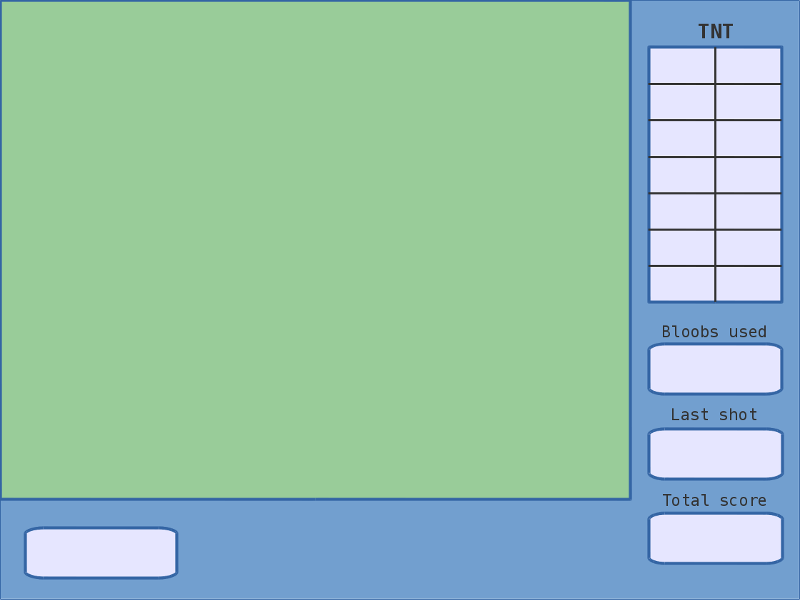
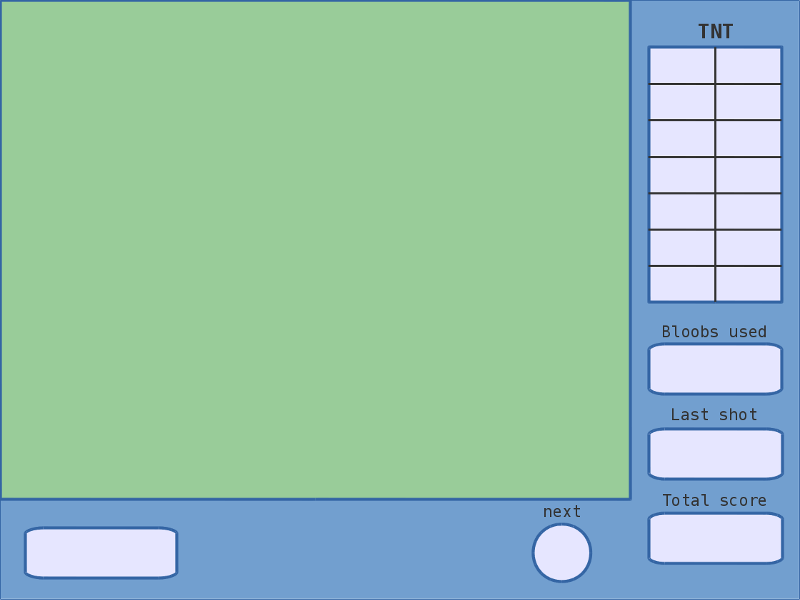
Bloob can now be shooted from cannon

Changed region(s): [[0.6562, 0.84, 0.75, 0.99]]

diff --git a/bloobs.py b/bloobs.py
@@ -2,36 +2,91 @@
 # -*- coding: utf-8 -*-
 
 import pyglet
+import random
+from math import sin
+from math import cos
+from math import radians
+from math import pi
 from settings import settings
 
 
 class Bloob(object):
-    def __init__(self, image, x, y):
+    def __init__(self, x, y):
+        bloob = random.choice(settings.bloobs[0:6])
+        image = pyglet.resource.image(bloob[0])
         # Set image's anchor point
         image.anchor_x, image.anchor_y = image.width/2, image.height/2
-        self.sprite = pyglet.sprite.Sprite(image, x=y, y=y, batch=batch,
+        self.sprite = pyglet.sprite.Sprite(image, x=x, y=y, batch=batch,
                                             group=foreground)
+        self.color = bloob[1]
+        """
+    def tick_wall(self, dt, game):
+        pass
+        #self.sprite.x += 2
+        #self.sprite.y += 3
+        """
 
+    def move(self, dt):
+        if self.movement == 'shot':
+            self.sprite.x += shot_velocity * cos(self.radians) * dt
+            self.sprite.y += shot_velocity * sin(self.radians) * dt
+        if self.movement == 'fall':
+            pass
+
+
+class Wall(object):
+    def __init__(self, game):
+        self.NB = 17    # Number of Bloobs in Line 0, 2, 4, ...
+        self.lines = []
+        y = game.firstLine_y
+        for line in range(game.numberOfLines):
+            nb = self.NB - line%2
+            x = 19 + 18*(line%2)
+            self.lines.append(self.generateBloobsLine(nb, x, y))
+            y = y - 36
+
+    def generateBloobsLine(self, nb, x, y):
+        line = []
+        for b in range(nb):
+            line.append(Bloob(x, y))
+            x += 37
+        return line
+
+    def deleteBloob(self, bloob, game):
+        pass
+        #posle signal ze ma spadnut, vymaze ho z self.lines
+        #a az bude dole, zmaze uplne
 
 
 class Cannon(object):
-    def __init__(self, image):
+    def __init__(self):
         # Set image's anchor point
-        image.anchor_x, image.anchor_y = image.width/2, 40
-        self.sprite = pyglet.sprite.Sprite(image, x=315, y=50, batch=batch,
+        image = pyglet.resource.image(settings.cannon)
+        image.anchor_x, image.anchor_y = image.width/2, 42
+        x, y = settings.cannon_coordinates
+        self.sprite = pyglet.sprite.Sprite(image, x=x, y=y, batch=batch,
                                             group=foreground)
 
-    def tick(self, dt):
+    def tick(self, dt, game):
+        # Moving the cannon with arrow keys:
         delta_rotation = 1
         if 'RIGHT' in pressed_keys:
             self.sprite.rotation += delta_rotation
-            if self.sprite.rotation > 90:
-                self.sprite.rotation = 90
         if 'LEFT' in pressed_keys:
             self.sprite.rotation -= delta_rotation
-            if self.sprite.rotation < -90:
-                self.sprite.rotation = -90
-        #if 'FIRE' in pressed_keys:
+        # Moving the cannon with mouse:
+        if game.mouseMovement != None:
+            self.sprite.rotation += game.mouseMovement
+            game.mouseMovement = None
+        if self.sprite.rotation > 75:
+            self.sprite.rotation = 75
+        if self.sprite.rotation < -75:
+            self.sprite.rotation = -75
+        if 'SHOOT' in pressed_keys:
+            rad = pi/2 - radians(self.sprite.rotation)
+            game.bloobsInCannon[0].movement = 'shot'
+            game.bloobsInCannon[0].radians = rad
+            game.movingBloobs.append(game.bloobsInCannon[0])
 
 
 class DangerBar(object):
@@ -43,8 +98,9 @@ class Game(object):
     def __init__(self):
         self.window = pyglet.window.Window(800, 600)
         self.window.push_handlers(keys)
-        img = pyglet.resource.image(settings.cannon)
-        self.Objects = [Cannon(img)]
+        self.mouseMovement = None
+        self.cannon = Cannon()
+        self.movingBloobs = []
         self.initialSettings()
         self.showLabels()
         self.tnt = DangerBar(self)
@@ -53,21 +109,39 @@ class Game(object):
         self.level = 1
         self.lives = 3
         self.score = 0
-        #self.start()
+        self.bloobsUsed = 0
+        self.lastShot = 0
+        self.numberOfLines = 9
+        self.firstLine_y = self.window.height - 18 # it's half size of bloob image
+        self.start()
+
+    def start(self):
+        x1 = settings.cannon_coordinates[0]
+        y1 = settings.cannon_coordinates[1] + 2
+        x2 = settings.cannon_coordinates[0] + 247
+        y2 = settings.cannon_coordinates[1] - 3
+        self.bloobsInCannon = [Bloob(x1, y1), Bloob(x2, y2)]
+        self.wall = Wall(self)
 
     def showLabels(self):
+        self.bloobsUsedLabel = pyglet.text.Label(text=str(self.bloobsUsed),
+                            font_size=24, x=775, y=233, color=(0, 0, 0, 200),
+                            anchor_x='right', anchor_y='center', batch=batch)
+        self.lastShotLabel = pyglet.text.Label(text=str(self.lastShot),
+                            font_size=24, x=775, y=147, color=(0, 0, 0, 200),
+                            anchor_x='right', anchor_y='center', batch=batch)
         self.scoreLabel = pyglet.text.Label(text=str(self.score),
-                            font_size=30, x=760, y=63, color=(0, 0, 0, 200),
-                            anchor_x='center', anchor_y='center', batch=batch)
+                            font_size=24, x=775, y=63, color=(0, 0, 0, 200),
+                            anchor_x='right', anchor_y='center', batch=batch)
         self.levelLabel = pyglet.text.Label(text='level: '+ str(self.level),
-                            font_size=20, x=100, y=50, color=(0, 0, 0, 200),
+                            font_size=20, x=95, y=50, color=(0, 0, 0, 200),
                             anchor_x='center', anchor_y='center', batch=batch)
 
     def update(self, dt):
         # Update the positions of all objects:
-        for obj in self.Objects:
-            obj.tick(dt)
-
+        self.cannon.tick(dt, game)
+        for b in self.movingBloobs:
+            b.move(dt)
 
 # Setup our keyboard handler
 key = pyglet.window.key
@@ -82,12 +156,12 @@ batch = pyglet.graphics.Batch()
 background = pyglet.graphics.OrderedGroup(0)
 foreground = pyglet.graphics.OrderedGroup(1)
 
-### GAME ###
-
 img = pyglet.resource.image(settings.background)
 Background = pyglet.sprite.Sprite(img=img, batch=batch, group=background)
 game = Game()
+shot_velocity = settings.velocity
 pyglet.clock.schedule_interval(game.update, 1./60)
+
 
 @game.window.event()
 def on_draw():
@@ -103,5 +177,10 @@ def on_key_press(symbol, modifiers):
 def on_key_release(symbol, modifiers):
     if symbol in key_control:
         pressed_keys.discard(key_control[symbol])
+
+@game.window.event()
+def on_mouse_motion(x, y, dx, dy):
+    game.mouseMovement = dx
+
 
 pyglet.app.run()

diff --git a/settings/settings.py b/settings/settings.py
@@ -6,5 +6,15 @@ import pyglet
 pyglet.resource.path = ['PNG']
 pyglet.resource.reindex()
 
-background          = 'background.png'
-cannon              = 'cannon.png'
+background  = 'background.png'
+cannon      = 'cannon.png'
+bloobs      = (('blue.png', 'blue'),
+               ('red.png', 'red'),
+               ('green.png', 'green'),
+               ('yellow.png', 'yellow'),
+               ('purple.png', 'purple'),
+               ('pink.png', 'pink'))
+
+cannon_coordinates  = (315, 50)
+
+velocity = 10
